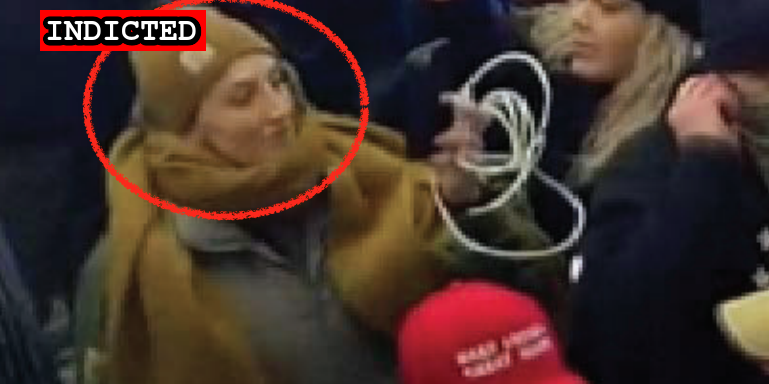
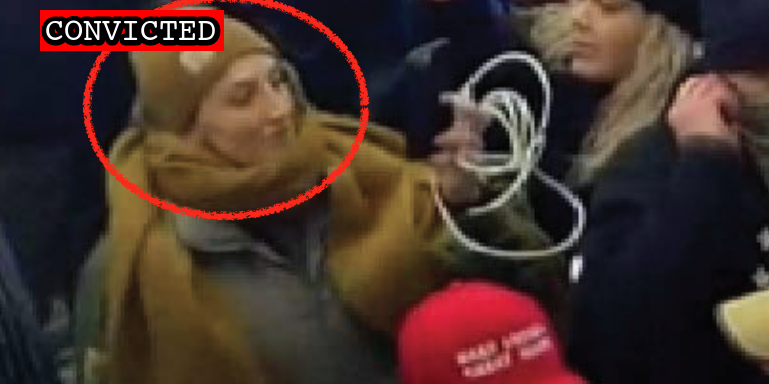
Latest conviction

Changed region(s): [[0.0312, 0.0312, 0.3121, 0.1562]]

diff --git a/docs/_suspects/marissa-suarez.md b/docs/_suspects/marissa-suarez.md
@@ -4,15 +4,17 @@ lastName: Suarez
 hashtag: MarissaSuarez
 aka:
 residence: New Jersey
-status: Indicted
+status: Convicted
 date: 2021-01-22
 charged: 2021-01-22
 indicted: 2021-03-10
-convicted: 
+convicted: 2022-05-02
+acquitted:
 sentenced: 
 dismissed: 
 deceased:
-plea_hearing:
+plea_hearing: 2022-05-02
+trial_date:
 sentencing:
 age: 31
 occupation: Corrections Officer
@@ -34,6 +36,10 @@ published: true
 caseNumber: 1:21-cr-205
 videos:
 charges:
+- code: 40 USC § 5104(e)(2)(G)
+  title: Parading, demonstrating or picketing in a Capitol building
+  url: https://www.law.cornell.edu/uscode/text/40/5104
+  felony: false
 sentence:
 ---
 - [News Report](https://www.nj.com/news/2021/01/jail-guard-from-nj-took-time-off-to-riot-in-dc-fbi-says.html)
